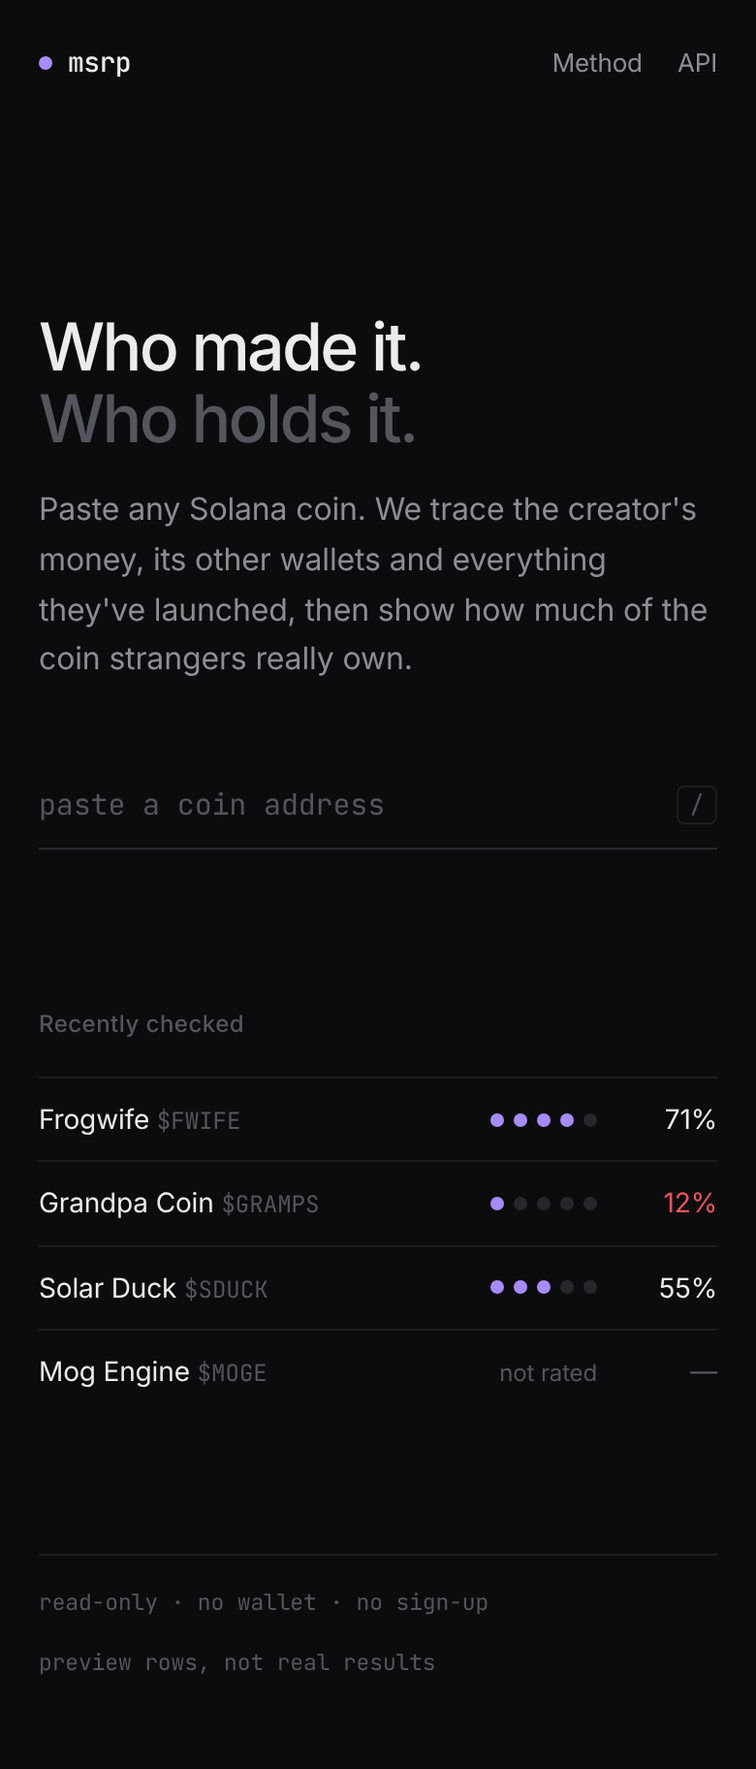
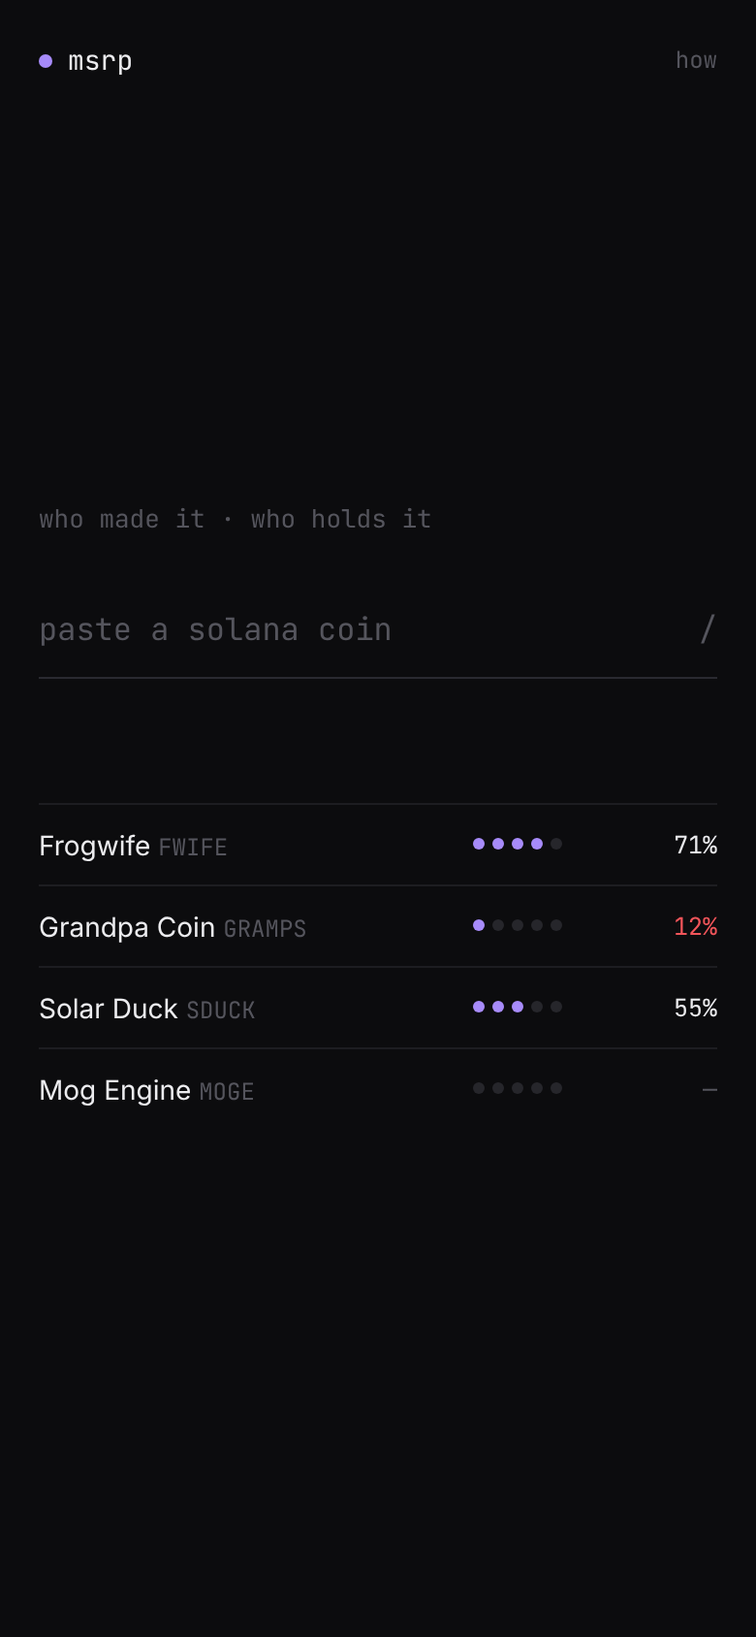
Design: final owner direction, simple (almost no words; details on demand)
Claude-Session: https://claude.ai/code/session_01L4g6GLuLwL6S9AWnUepSCK

diff --git a/docs/design/min/sticker.html b/docs/design/min/sticker.html
@@ -1,60 +1,28 @@
 <!doctype html><html lang="en"><head><meta charset="utf-8"><meta name="viewport" content="width=device-width,initial-scale=1"><title>Example Coin · msrp</title>
-<link href="https://fonts.googleapis.com/css2?family=Inter:wght@400;500&family=JetBrains+Mono:wght@400;500&display=swap" rel="stylesheet"><link rel="stylesheet" href="min.css"></head><body><div class="w">
-<div class="top"><a class="mark" href="#"><i></i>msrp</a><div class="q"><span>paste a coin address</span><kbd>/</kbd></div></div>
+<link href="https://fonts.googleapis.com/css2?family=Inter:wght@400;500&family=JetBrains+Mono:wght@400&display=swap" rel="stylesheet"><link rel="stylesheet" href="s.css"></head><body><div class="w">
+<div class="top"><a class="mark" href="#"><i></i>msrp</a><div class="q"><span>paste address</span><kbd>/</kbd></div></div>
 
-<header class="coin"><h1>Example Coin <span>$EXAMPLE</span></h1>
-<p><span class="m">Examp1eCoin111…1111pump</span> &nbsp;·&nbsp; pump.fun, graduated &nbsp;·&nbsp; 19 Nov 00:58 UTC &nbsp;·&nbsp; <span class="faint">example data</span></p></header>
+<h1>Example Coin <span>$EXAMPLE</span></h1>
+<div class="sub">Examp…pump · pump.fun · example</div>
 
-<div class="hero"><div class="n"><em>$0.71M</em> <span class="faint">/ $1.84M</span></div>
-<p>Of this coin's <b>$1.84M</b> market cap, <b>$0.71M</b> is held by wallets with no link to the creator or to each other. That's <b>39%</b> of the supply outside pools.</p></div>
-
-<div class="rates">
-<div><small>Who made it</small><div class="dots"><i class="on"></i><i></i><i></i><i></i><i></i></div></div>
-<div><small>Who holds it</small><div class="dots"><i class="on"></i><i class="on"></i><i></i><i></i><i></i></div></div>
-<div><small>Market</small><div class="dots"><i class="on"></i><i class="on"></i><i class="on"></i><i></i><i></i></div></div>
-<div><small>Overall</small><div class="dots"><i class="on"></i><i></i><i></i><i></i><i></i></div></div>
+<div class="hero"><div><div class="big">$0.71M</div><div class="cap">independent of <b>$1.84M</b></div></div>
+<svg viewBox="0 0 170 140" width="170" role="img" aria-label="wallet family"><title>wallet family</title>
+<g stroke="#26262b"><line x1="85" y1="44" x2="44" y2="20"/><line x1="85" y1="44" x2="128" y2="18"/><line x1="85" y1="44" x2="150" y2="56"/><line x1="85" y1="44" x2="22" y2="58"/><line x1="85" y1="44" x2="54" y2="92"/><line x1="85" y1="44" x2="116" y2="94"/><line x1="85" y1="44" x2="85" y2="124"/><line x1="85" y1="44" x2="156" y2="28"/></g>
+<g stroke="rgba(167,139,250,.45)"><line x1="85" y1="124" x2="54" y2="92"/><line x1="85" y1="124" x2="116" y2="94"/></g>
+<circle cx="85" cy="44" r="5" fill="#e5c07b"/><circle cx="85" cy="124" r="7" fill="#a78bfa"/><circle cx="44" cy="20" r="3.5" fill="#ececef"/>
+<g fill="#f2555a"><circle cx="54" cy="92" r="4"/><circle cx="116" cy="94" r="3.5"/><circle cx="150" cy="56" r="3"/><circle cx="22" cy="58" r="3"/></g>
+<g fill="#3a3a41"><circle cx="128" cy="18" r="2.5"/><circle cx="156" cy="28" r="2.5"/></g></svg>
 </div>
 
-<section><h2>Who made it</h2>
-<div class="split"><div>
-<p class="lead">The creator <span class="m">7xKp…Qe2D</span> was funded by <span class="m hl">FuNd…9aZt</span> three minutes before launch. That wallet funded eight others. Together they launched 41 coins and sold within 30 minutes on 37.</p>
-</div>
-<svg viewBox="0 0 200 170" width="200" role="img" aria-label="Wallet family graph"><title>Wallet family</title>
-<g stroke="#26262b" stroke-width="1"><line x1="100" y1="60" x2="52" y2="28"/><line x1="100" y1="60" x2="150" y2="26"/><line x1="100" y1="60" x2="170" y2="72"/><line x1="100" y1="60" x2="34" y2="76"/><line x1="100" y1="60" x2="68" y2="112"/><line x1="100" y1="60" x2="134" y2="114"/><line x1="100" y1="60" x2="100" y2="150"/><line x1="100" y1="60" x2="178" y2="40"/><line x1="100" y1="60" x2="24" y2="44"/></g>
-<g stroke="rgba(167,139,250,.5)"><line x1="100" y1="150" x2="68" y2="112"/><line x1="100" y1="150" x2="134" y2="114"/><line x1="100" y1="150" x2="52" y2="28" stroke-dasharray="2 3"/></g>
-<circle cx="100" cy="60" r="5" fill="#e5c07b"/><circle cx="100" cy="150" r="6.5" fill="#a78bfa"/>
-<circle cx="52" cy="28" r="3.5" fill="#ececef"/>
-<g fill="#f2555a"><circle cx="68" cy="112" r="4"/><circle cx="134" cy="114" r="3.5"/><circle cx="170" cy="72" r="3"/><circle cx="34" cy="76" r="3"/></g>
-<g fill="#3a3a41"><circle cx="150" cy="26" r="2.5"/><circle cx="178" cy="40" r="2.5"/><circle cx="24" cy="44" r="2.5"/></g>
-</svg></div>
-<pre><span class="y">FuNd…9aZt</span>
-├─ <span class="a">7xKp…Qe2D</span>  <span class="t">this coin</span>   6 launches  <span class="r">5 sold &lt;30m</span>
-├─ <span class="a">3hQz…Lm8P</span>              9 launches  <span class="r">9 sold &lt;30m</span>
-├─ <span class="a">Bv2c…uY7n</span>              8 launches  <span class="r">8 sold &lt;30m</span>
-├─ <span class="a">Kq9s…Pz1x</span>              7 launches  <span class="r">6 sold &lt;30m</span>
-└─ <span class="c">+ 5 more</span>              11 launches  <span class="r">9 sold &lt;30m</span></pre>
-</section>
-
-<section><h2>Who holds it</h2>
-<div class="bar"><span style="width:48%;background:var(--red)"></span><span style="width:22%;background:#2c2c32"></span><span style="width:30%;background:var(--grn)"></span></div>
-<div class="leg"><span><b>48%</b>linked</span><span><b>22%</b>pools</span><span><b>30%</b>independent</span></div>
 <div class="rows">
-<div class="row"><span class="faint">1</span><span class="m dim">5Q54…pool</span><span class="r">22.0%</span><span class="tag faint">pool</span></div>
-<div class="row"><span class="faint">2</span><span class="m">Gx7a…Rr2M</span><span class="r">11.2%</span><span class="tag" style="color:var(--red)">linked</span></div>
-<div class="row"><span class="faint">3</span><span class="m">Pn3e…Yb8K</span><span class="r">9.6%</span><span class="tag" style="color:var(--red)">linked</span></div>
-<div class="row"><span class="faint">4</span><span class="m">Zr8u…Mm4T</span><span class="r">8.0%</span><span class="tag" style="color:var(--red)">launch block</span></div>
-<div class="row"><span class="faint">5</span><span class="m">Ca1t…Ff5J</span><span class="r">4.1%</span><span class="tag" style="color:var(--grn)">independent</span></div>
-</div></section>
+<div class="row"><span>rating</span><div class="v"><div class="dots"><i class="on"></i><i></i><i></i><i></i><i></i></div></div></div>
+<div class="row"><span>creator</span><div class="v"><span class="a">7xKp…Qe2D</span><span class="t3">←</span><span class="y">FuNd…9aZt</span><span class="t3">3m before launch</span></div></div>
+<div class="row"><span>family</span><div class="v"><span>9 wallets</span><span class="t3">·</span><span>41 launches</span><span class="t3">·</span><span class="r">37 sold &lt;30m</span></div></div>
+<div class="row"><span>holders</span><div class="v"><div class="bar"><span style="flex:48;background:var(--red)"></span><span style="flex:22;background:#2c2c32"></span><span style="flex:30;background:var(--grn)"></span></div><span class="r">48</span><span class="t3">/</span><span class="t3">22</span><span class="t3">/</span><span class="g">30</span></div></div>
+</div>
 
-<section><h2>Notes</h2>
-<ul class="notes">
-<li><i style="background:var(--red)"></i><span>41 coins from one funder's wallets. The creator sold within 30 minutes on 37 of them.</span></li>
-<li><i style="background:var(--red)"></i><span>Six wallets funded by the same source hold 48% of supply.</span></li>
-<li><i style="background:var(--yel)"></i><span>The creator received its SOL three minutes before launch.</span></li>
-<li><i style="background:var(--grn)"></i><span>Mint and freeze authority are removed.</span></li>
-<li><i style="background:var(--tx3)"></i><span class="dim">Two of 14 holders have too much history to trace.</span></li>
-</ul></section>
+<div class="flags"><span><i style="background:var(--red)"></i>launch factory</span><span><i style="background:var(--red)"></i>linked 48%</span><span><i style="background:var(--yel)"></i>fresh creator</span><span><i style="background:var(--grn)"></i>authorities off</span></div>
 
-<div class="acts"><a href="#">Copy link</a><a href="#">Share</a><a href="#">Embed</a><a href="#">JSON</a><a href="#">SolanaView ↗</a></div>
-<div class="foot"><span>31 rpc calls · 4.2s · checked 01:40 UTC</span><span>public data · not financial advice</span></div>
+<details><summary>details ↓</summary></details>
+<div class="foot"><span>31 calls · 4.2s · 01:40 UTC</span><span>not financial advice</span></div>
 </div></body></html>

diff --git a/docs/design/min/s.css b/docs/design/min/s.css
@@ -1,0 +1,48 @@
+:root{--bg:#0c0c0e;--tx:#ececef;--tx2:#8d8d96;--tx3:#55555d;--hair:#1d1d21;--acc:#a78bfa;--red:#f2555a;--grn:#4cc38a;--yel:#e5c07b;--off:#26262b;
+--sans:Inter,system-ui,-apple-system,"Segoe UI",sans-serif;--mono:"JetBrains Mono",ui-monospace,Menlo,monospace}
+*{box-sizing:border-box;margin:0;padding:0}
+body{background:var(--bg);color:var(--tx);font:14px/1.5 var(--sans);-webkit-font-smoothing:antialiased}
+a{color:inherit;text-decoration:none}
+.w{max-width:640px;margin:0 auto;padding:28px 24px 56px}
+.top{display:flex;align-items:center;justify-content:space-between}
+.mark{font:500 14px var(--mono);display:flex;align-items:center;gap:8px}
+.mark i,.dot{width:7px;height:7px;border-radius:50%;background:var(--acc);display:inline-block}
+.q{width:220px;display:flex;justify-content:space-between;border-bottom:1px solid var(--hair);padding:4px 0;color:var(--tx3);font:12px var(--mono)}
+.q kbd{font:inherit}
+.m{font-family:var(--mono)}
+.t2{color:var(--tx2)}.t3{color:var(--tx3)}
+h1{margin-top:80px;font-size:26px;font-weight:500;letter-spacing:-.025em}
+h1 span{color:var(--tx3)}
+.sub{margin-top:4px;font:12px var(--mono);color:var(--tx3)}
+.hero{display:flex;justify-content:space-between;align-items:center;margin-top:44px;gap:24px}
+.big{font-size:72px;font-weight:500;letter-spacing:-.05em;line-height:.95;color:var(--acc)}
+.big.unk{color:var(--tx3)}
+.cap{margin-top:10px;font:12px var(--mono);color:var(--tx3)}
+.cap b{color:var(--tx2);font-weight:400}
+.dots{display:flex;gap:6px}
+.dots i{width:9px;height:9px;border-radius:50%;background:var(--off)}
+.dots i.on{background:var(--acc)}
+.dots.sm{gap:4px}.dots.sm i{width:6px;height:6px}
+.rows{margin-top:52px;border-top:1px solid var(--hair)}
+.row{display:grid;grid-template-columns:92px 1fr;gap:16px;align-items:center;padding:13px 0;border-bottom:1px solid var(--hair)}
+.row>span:first-child{color:var(--tx3);font-size:12.5px}
+.row .v{font:13px var(--mono);display:flex;align-items:center;gap:10px;flex-wrap:wrap}
+.a{color:var(--acc)}.y{color:var(--yel)}.r{color:var(--red)}.g{color:var(--grn)}
+.bar{display:flex;gap:3px;height:4px;width:100%;max-width:300px}
+.bar span{border-radius:4px}
+.flags{display:flex;flex-wrap:wrap;gap:8px 22px;margin-top:22px;font-size:13px;color:var(--tx2)}
+.flags span{display:flex;align-items:center;gap:8px}
+.flags i{width:6px;height:6px;border-radius:50%}
+details{margin-top:40px;color:var(--tx3);font-size:12.5px}
+summary{cursor:pointer;list-style:none;font:12px var(--mono)}
+summary::-webkit-details-marker{display:none}
+.foot{margin-top:56px;display:flex;justify-content:space-between;font:11px var(--mono);color:var(--tx3)}
+svg text{font:9px var(--mono)}
+/* home */
+.home{min-height:calc(100vh - 84px);display:flex;flex-direction:column;justify-content:center}
+.home .field{display:flex;justify-content:space-between;border-bottom:1px solid #2a2a30;padding:14px 0;font:16px var(--mono);color:var(--tx3)}
+.home h2{font-size:13px;font-weight:400;color:var(--tx3);margin-bottom:22px;font-family:var(--mono)}
+.rec{margin-top:64px}
+.rec a{display:grid;grid-template-columns:1fr 70px 44px;gap:12px;align-items:center;padding:10px 0;border-top:1px solid var(--hair)}
+.rec a span:last-child{text-align:right;font:12.5px var(--mono)}
+@media (max-width:600px){.w{padding:22px 20px 44px}.q{width:130px}h1{margin-top:52px}.hero{flex-direction:column;align-items:flex-start}.big{font-size:56px}.hero svg{align-self:center}.row{grid-template-columns:72px 1fr}}

diff --git a/docs/design/min/home.html b/docs/design/min/home.html
@@ -1,14 +1,13 @@
 <!doctype html><html lang="en"><head><meta charset="utf-8"><meta name="viewport" content="width=device-width,initial-scale=1"><title>msrp</title>
-<link href="https://fonts.googleapis.com/css2?family=Inter:wght@400;500&family=JetBrains+Mono:wght@400;500&display=swap" rel="stylesheet"><link rel="stylesheet" href="min.css"></head><body><div class="w">
-<div class="top"><a class="mark" href="#"><i></i>msrp</a><span class="dim" style="font-size:13px;display:flex;gap:18px"><a href="#">Method</a><a href="#">API</a></span></div>
-<div class="homehero"><h1>Who made it.<br><span>Who holds it.</span></h1>
-<p>Paste any Solana coin. We trace the creator's money, its other wallets and everything they've launched, then show how much of the coin strangers really own.</p>
-<div class="big"><span>paste a coin address</span><kbd>/</kbd></div></div>
-<div class="recent"><h2>Recently checked</h2>
-<div class="rec"><span>Frogwife <span class="faint m">$FWIFE</span></span><span class="dots" style="justify-content:flex-end"><i class="on"></i><i class="on"></i><i class="on"></i><i class="on"></i><i></i></span><span class="r">71%</span><span class="r faint hide">2m</span></div>
-<div class="rec"><span>Grandpa Coin <span class="faint m">$GRAMPS</span></span><span class="dots" style="justify-content:flex-end"><i class="on"></i><i></i><i></i><i></i><i></i></span><span class="r" style="color:var(--red)">12%</span><span class="r faint hide">4m</span></div>
-<div class="rec"><span>Solar Duck <span class="faint m">$SDUCK</span></span><span class="dots" style="justify-content:flex-end"><i class="on"></i><i class="on"></i><i class="on"></i><i></i><i></i></span><span class="r">55%</span><span class="r faint hide">9m</span></div>
-<div class="rec"><span>Mog Engine <span class="faint m">$MOGE</span></span><span class="r faint" style="font-size:12px">not rated</span><span class="r faint">—</span><span class="r faint hide">11m</span></div>
-</div>
-<div class="foot"><span>read-only · no wallet · no sign-up</span><span>preview rows, not real results</span></div>
+<link href="https://fonts.googleapis.com/css2?family=Inter:wght@400;500&family=JetBrains+Mono:wght@400&display=swap" rel="stylesheet"><link rel="stylesheet" href="s.css"></head><body><div class="w">
+<div class="top"><a class="mark" href="#"><i></i>msrp</a><a class="t3 m" style="font-size:12px" href="#">how</a></div>
+<div class="home">
+<h2>who made it · who holds it</h2>
+<div class="field"><span>paste a solana coin</span><span>/</span></div>
+<div class="rec">
+<a href="#"><span>Frogwife <span class="t3 m" style="font-size:12px">FWIFE</span></span><span class="dots sm"><i class="on"></i><i class="on"></i><i class="on"></i><i class="on"></i><i></i></span><span>71%</span></a>
+<a href="#"><span>Grandpa Coin <span class="t3 m" style="font-size:12px">GRAMPS</span></span><span class="dots sm"><i class="on"></i><i></i><i></i><i></i><i></i></span><span class="r">12%</span></a>
+<a href="#"><span>Solar Duck <span class="t3 m" style="font-size:12px">SDUCK</span></span><span class="dots sm"><i class="on"></i><i class="on"></i><i class="on"></i><i></i><i></i></span><span>55%</span></a>
+<a href="#"><span>Mog Engine <span class="t3 m" style="font-size:12px">MOGE</span></span><span class="dots sm"><i></i><i></i><i></i><i></i><i></i></span><span class="t3">—</span></a>
+</div></div>
 </div></body></html>

diff --git a/docs/DESIGN.md b/docs/DESIGN.md
@@ -1,42 +1,45 @@
-# MSRP design brief: ultra minimal (owner decision, 19 Nov 2026, final)
+# MSRP design brief: simple (owner decision, 19 Nov 2026, final)
 
-History: the owner rejected a dark neon "showroom" (too AI-looking) and a plain white printed label ("I hate it"). They liked a nerdy dark "knowledge vault" look, then asked for it to be **"ultra minimalist and modern"** and handed the project over. This is the final direction: the vault's soul (dark, calm, purple accent, monospace details, family tree, wallet graph), stripped to one quiet column.
+History: the owner rejected a dark neon "showroom" (too AI), a white printed label ("I hate it") and a wordier minimal page ("too much writing, not minimalist and simple enough"). They liked the dark "vault" palette and handed the project over. **Final direction: almost no words. Numbers, dots, one graph. Details on demand.**
 
-**Approved reference: `docs/design/min/`.** Open `sticker.html` and `home.html` in a browser; the screenshots are `*-desktop.png` and `*-mobile.png`. Match it closely. It's our own original design.
+**Approved reference: `docs/design/min/`.** Open `sticker.html` and `home.html` with `s.css`; the screenshots are `*-desktop.png` and `*-mobile.png`. Match it exactly in spirit and density. It's our own original design.
 
-## Principles
-- **One column**, max 680px, centered, generous whitespace. No sidebars, tabs, cards, boxes, pills, chips, badges, shadows, gradients or icons.
-- **Hairlines only** (`#1d1d21`) to separate things. Hierarchy comes from size, weight and grey levels, never from containers.
-- **One big number** per coin: the sticker price in purple, then `/ market cap` in dim grey, at 64px (48px on phones), followed by one plain sentence explaining it.
-- **Ratings are dots**: five 7px circles, filled purple for the score and `#26262b` for the rest, in a four-column row (two columns on phones) labelled Who made it / Who holds it / Market / Overall. Show "not rated" text when the score is null.
-- **Section labels** are tiny (12px), grey (`#55555d`) and sentence case: "Who made it", "Who holds it", "Notes".
-- **Wallets** are monospace in purple. The funder is yellow. Linked is red, independent is green, and pools/infrastructure are grey.
-- **Notes** are plain sentences with a 6px colored dot (red = warning, yellow = caution, green = fine, grey = not checked), separated by hairlines.
-- **Nerdy details that stay:**
-  - the family tree as aligned monospace text, with no box
-  - a small hairline wallet graph (about 200px) beside the "Who made it" sentence on desktop and below it on phones, with funder yellow, coin purple, creator white, linked red, others dark grey, `<title>` tooltips, and nodes linking to Solscan
-  - a one-line monospace footer from real coverage data: `31 rpc calls · 4.2s · checked 01:40 UTC` on the left, `public data · not financial advice` on the right
-  - `/` to search
-- **Homepage**: a big two-line headline "Who made it. / Who holds it." (the second line dim), one sentence, an underline-only monospace address field with a `/` hint, then "Recently checked" rows (name, $SYMBOL in dim monospace, rating dots, independent %, age).
+## The rule: a word budget
+- **Coin page, visible by default:** the coin name, a one-line mono subline, ONE big number with a 4-word caption, the graph, four rows and up to four flags, each flag 1–3 words. **No sentences, no paragraphs and no section headings on the main view.**
+- **Everything else** (the full family tree, holder table, all findings with explanations, coverage notes, methodology links, share/embed/JSON/SolanaView links) lives inside ONE collapsed `<details>` element labelled `details ↓`. Inside it, keep it terse: monospace tree, a small table, one line per note.
+- **Homepage:** the logo, a tiny mono tagline `who made it · who holds it`, one big underline-only input `paste a solana coin` with `/`, and recently checked coins as rows (name, SYMBOL dim mono, small rating dots, independent %). Nothing else.
+
+## Coin page anatomy (top to bottom)
+1. Top line: `● msrp` on the left, a small underline-only search `paste address  /` on the right.
+2. `Name $SYMBOL` (26px, 500, symbol dim), then a mono subline `Abcd…pump · pump.fun · 2h` (plus `· example` on the example page).
+3. Hero row: the big number (72px, purple) = sticker price, captioned in mono `independent of $1.84M`. When it's unknown, show `—` in dim grey, captioned `holders unknown`. On the right sits the wallet-family graph (about 170px, hairline edges; funder yellow, coin purple and largest, creator white, linked red, others dark grey; `<title>` tooltips).
+4. Four hairline rows, each a short grey label and a mono value:
+   - `rating`: five 9px dots (purple filled / `#26262b` empty), or `not rated` dim
+   - `creator`: `7xKp…Qe2D ← FuNd…9aZt 3m before launch` (creator purple, funder yellow, rest dim)
+   - `family`: `9 wallets · 41 launches · 37 sold <30m` (the last part red when > 0)
+   - `holders`: a 4px split bar (red linked / dark pool / green independent / darker untraced), then `48 / 22 / 30`
+5. Flags: up to four, each a 6px colored dot + 1–3 words (`launch factory`, `linked 48%`, `fresh creator`, `authorities off`, `holders unknown`). Red = warning, yellow = caution, green = fine, grey = unknown. Pick the four most important.
+6. `details ↓` (collapsed).
+7. Footer: one mono line, `31 calls · 4.2s · 01:40 UTC` on the left, `not financial advice` on the right.
 
 ## Tokens (use exactly)
 ```
---bg #0c0c0e  --tx #ececef  --tx2 #8d8d96  --tx3 #55555d  --hair #1d1d21
---acc #a78bfa  --red #f2555a  --grn #4cc38a  --yel #e5c07b  dot-off #26262b  pool-grey #2c2c32
-fonts: Inter 400/500 (UI) + JetBrains Mono 400/500 (addresses, numbers, tree, footer), Google Fonts with display=swap and system fallbacks
-weights: 400 and 500 only. Headings 500 with tight tracking (-0.03em to -0.045em).
+--bg #0c0c0e  --tx #ececef  --tx2 #8d8d96  --tx3 #55555d  --hair #1d1d21  dot-off #26262b  pool #2c2c32
+--acc #a78bfa  --red #f2555a  --grn #4cc38a  --yel #e5c07b
+Inter 400/500 + JetBrains Mono 400 (Google Fonts, display=swap, system fallbacks). 640px column.
 ```
 
-## Behaviour (must work)
-1. **Highlighter**: hover or focus a wallet and every occurrence of it, and every wallet linked to it, gets a soft yellow ring (`rgba(229,192,123,.13)` background + 1px `rgba(229,192,123,.3)` ring), including the graph nodes. Keyboard accessible.
-2. **Every number links to its evidence** (Solscan transaction or account) with a subtle dotted underline on hover.
-3. **Pasting a valid address opens it.** `/` focuses the field.
-4. **Waiting page**: same column. The steps tick off in monospace (`reading coin … ok`), then the page refreshes into the sticker.
-5. **Works without JavaScript.** JS only adds the highlighter, copy, paste-to-open and polling. CSS ≤ 10 KB, JS ≤ 8 KB.
-6. **Holder table**: a 3px rounded split bar (linked / pools / independent, plus "untraced" in dark grey when present), the three big percentages under it, then hairline rows: rank, wallet, %, label in its color.
-7. **Badge** (`/badge/<mint>.svg`): a tiny dark pill with a purple dot, `msrp`, the five rating dots, then `39% independent`.
-8. **Share card (OG)**: the big purple sticker price on near-black with the coin name, nothing else.
-9. **Methodology, pricing, about and error pages** use the same column: a big title, then plain sections.
+## Behaviour
+- **Highlighter:** hover or focus a wallet and every place it appears, plus the wallets linked to it, gets a soft yellow ring, including graph nodes.
+- **Every value links to its evidence** (Solscan) with no visible underline until hover.
+- `/` focuses search, and pasting a valid address opens it.
+- Works without JavaScript.
+- **Waiting page:** the same top line, the big number position shows a dim `…`, and three mono steps tick off. Then the page reloads.
+- **Badge:** a dark pill with `● msrp`, five rating dots and `30%`.
+- **Share card:** near-black, the coin name and the big purple number.
+- **Other pages** (methodology, pricing, about, errors): the same column, a title and terse rows. No long prose; methodology can be a table of rule → threshold.
+- **Disclaimer:** the footer says `not financial advice`. The full disclaimer lives inside details and on /about.
+- CSS ≤ 8 KB, JS ≤ 6 KB.
 
 ## Banned
-Sidebars, tabs, cards, boxed callouts, pills, emoji, icon sets, glows, gradients, glassmorphism, more than two font weights, marketing words ("AI-powered", "revolutionary", "unleash", "next-gen"), and anything that predicts price or says safe/scam/rug/buy/sell.
+Paragraphs on the main view, section headings on the main view, sidebars, tabs, cards, boxes, pills, emoji, icons, glows, gradients, more than two weights, marketing words, and any price prediction or safe/scam/rug/buy/sell wording.

diff --git a/CLAUDE.md b/CLAUDE.md
@@ -4,8 +4,8 @@ MSRP prints a "window sticker" for any Solana meme coin. It shows who built the 
 
 The owner is not a developer. Write in plain language. Work autonomously. When unsure, choose the safest option, write it under DECISIONS in docs/PROGRESS.md and keep going. If you run out of obvious work, add ideas to NEXT_STEPS.md and push.
 
-## DESIGN: owner decision, binding (final: "ultra minimal")
-The interface must follow **docs/DESIGN.md** and match **docs/design/min/** (sticker.html, home.html and their screenshots): one dark, quiet column, one big purple number, rating dots, hairlines, monospace wallets, the family tree and a small wallet graph. This **overrides any other design brief or task prompt**, including earlier instructions for a "showroom", a printer animation, a constellation, a plain white printed label or a three-pane "vault" (all superseded by the owner). If a task asks for those, build the docs/DESIGN.md version instead.
+## DESIGN: owner decision, binding (final: "simple")
+The interface must follow **docs/DESIGN.md** and match **docs/design/min/** (sticker.html, home.html, s.css and screenshots): dark, almost no words. The coin page shows the name, one big purple number, the wallet graph, four one-line rows and up to four 1-3 word flags. Everything else goes behind one collapsed "details". This **overrides any other design brief or task prompt**, including earlier "showroom", printed-label, three-pane vault or wordier minimal designs (all rejected by the owner).
 
 ## Never
 - Hold, ask for or store a private key or seed phrase. Never build, sign or send a blockchain transaction. MSRP is read-only.
